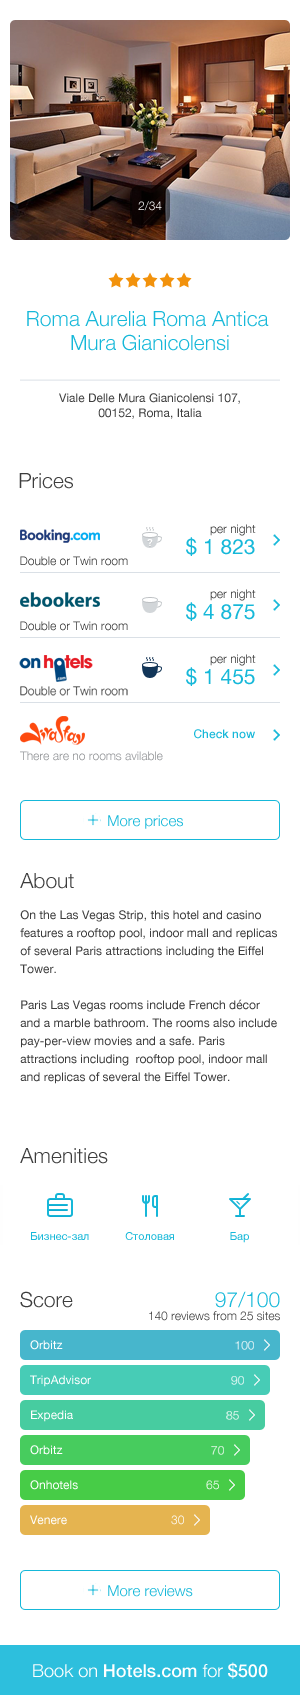
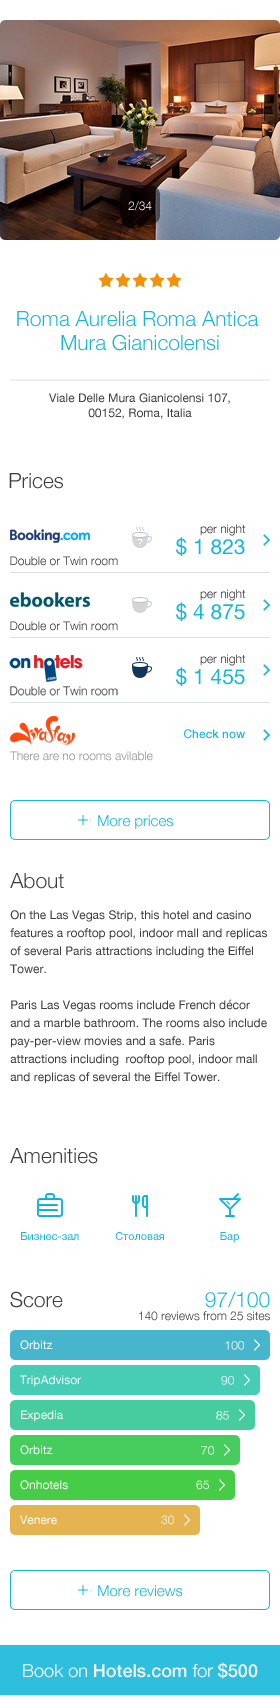
Fix

diff --git a/js/filters.js b/js/filters.js
@@ -3,7 +3,6 @@ Grid.filters = (function(filters){
     var self = filters;
 
     var _filtersBtnOpen      = HS().sClass('header-logo'),
-        _layout              = HS().sClass('layout'),
         _offCanvasMenu       = HS().sClass('off-canvas-menu'),
         _offCanvasMenuMask   = HS().sClass('off-canvas-menu_mask'),
         _filtersCnt          = HS().sClass('filters'),
@@ -34,11 +33,13 @@ Grid.filters = (function(filters){
         }
 
         _offCanvasMenu.addClass('open');
+        Grid.layout.addClass('hidden');
         self.filtersOpenStatus = true;
     };
 
     self.closeFilterMenu = function(){
         _offCanvasMenu.removeClass('open');
+        Grid.layout.removeClass('hidden');
         self.filtersOpenStatus = false;
     };
 

diff --git a/js/hotel-open.js b/js/hotel-open.js
@@ -24,17 +24,19 @@ Grid.hotel = (function(hotel){
 
     self.openHotel = function(){
         _oneHotelCnt.addClass('open');
+        Grid.layout.addClass('hidden');
         self.openHotelStatus = true;
     };
 
     self.closeHotel = function(){
         _oneHotelCnt.removeClass('open');
+        Grid.layout.removeClass('hidden');
         self.openHotelStatus = false;
     };
 
     self.setOpenHotelWidth = function(){
         var width = HS().findOne('.hotel').css('width');
-        var left  = HS().sClass('search-results').css('width');
+        var left  = Grid.searchResult.css('width');
         _oneHotelCnt.css({
             width : width,
             left  : left

diff --git a/js/grid.js b/js/grid.js
@@ -2,6 +2,9 @@
 var Grid =(function(Grid){
     var self = Grid;
 
+    self.layout         = HS().sClass('layout');
+    self.searchResult   = HS().sClass('search-results');
+
     self.resizeChange = false;
     self.isMobile;
 

diff --git a/css/core/base.css b/css/core/base.css
@@ -36,6 +36,10 @@ body{
     display: none;
 }
 
+.hidden{
+    overflow: hidden;
+}
+
 .img-responsive-height {
     width: 100%;
     height: 100%;

diff --git a/css/module/open-hotel-panel.css b/css/module/open-hotel-panel.css
@@ -10,7 +10,7 @@
 
     z-index: 10;
 
-    padding: 60px 0 0 0;
+    padding: 60px 10px 0 10px;
 
     text-align: center;
 }

diff --git a/css/core/off-canvas-menu.css b/css/core/off-canvas-menu.css
@@ -16,7 +16,7 @@
     bottom: 0;
     width: 100%;
 
-    z-index: 30;
+    z-index: 40;
 
     visibility: visible;
 }
